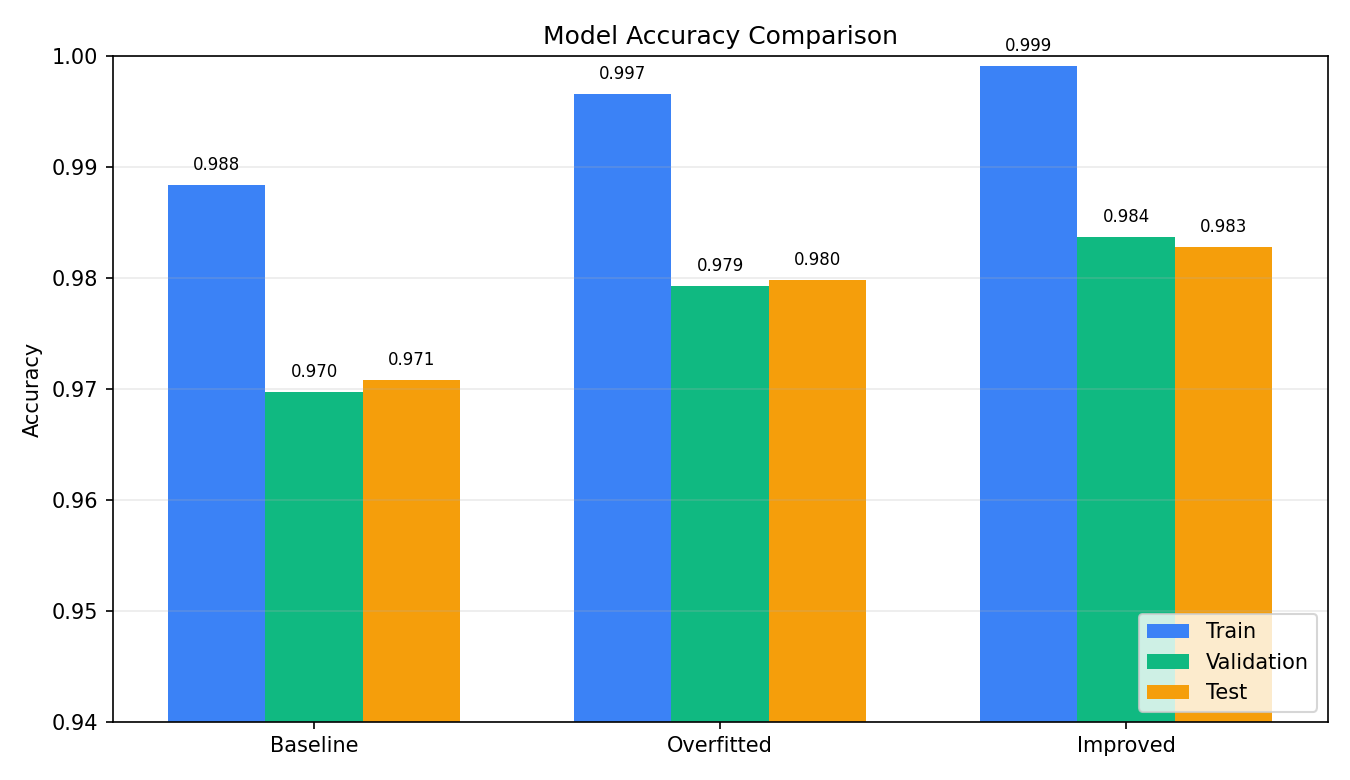
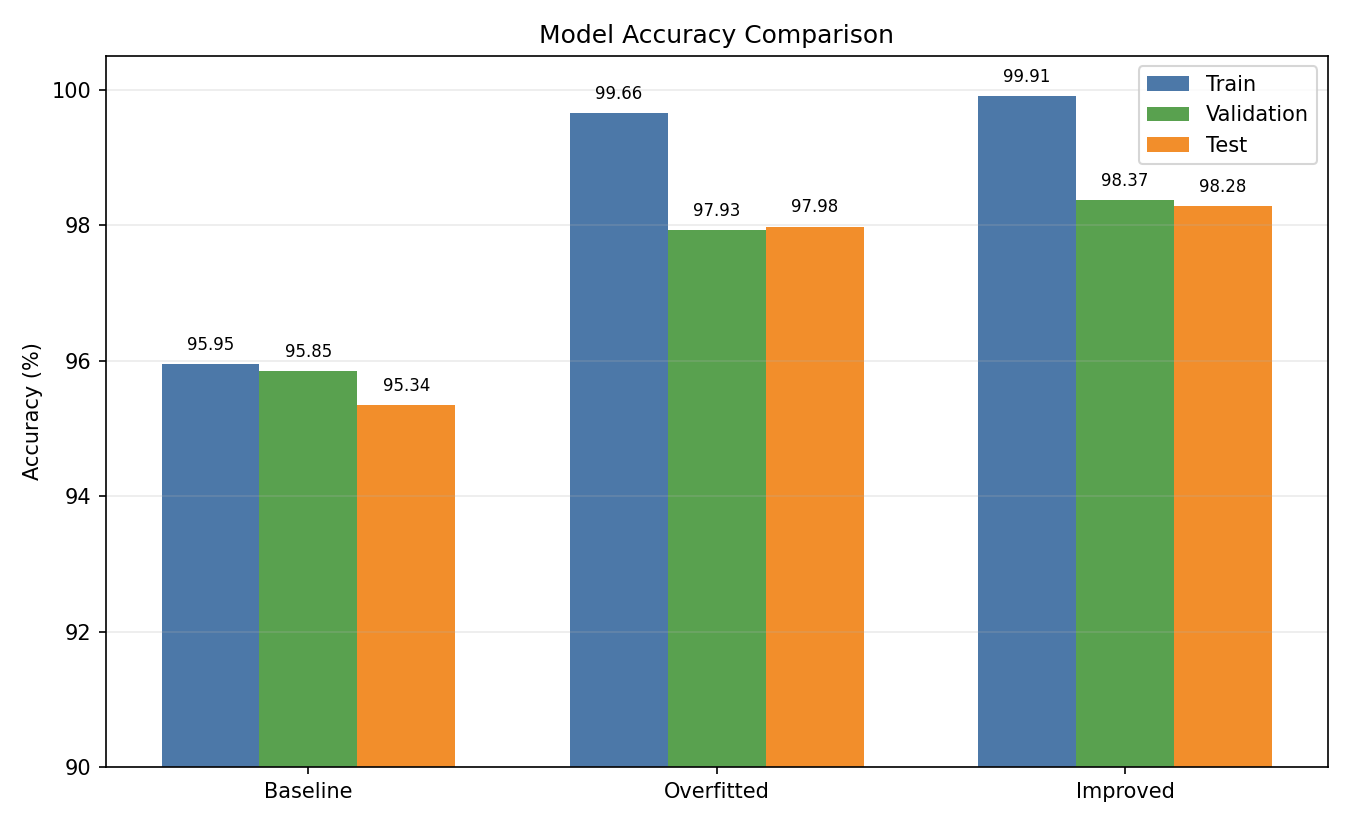
updated the architecture of the baseline model

diff --git a/models.py b/models.py
@@ -10,13 +10,12 @@ NUM_CLASSES = 10
 
 
 def build_baseline_model():
-    """Create the simple feed-forward neural network for Part 1."""
+    """Create a small baseline model that acts as a stable reference."""
     model = Sequential(
         [
             Input(shape=INPUT_SHAPE, name="input"),
             Flatten(name="flatten"),
-            Dense(128, activation="relu", name="dense_128"),
-            Dense(64, activation="relu", name="dense_64"),
+            Dense(32, activation="relu", name="dense_32"),
             Dense(NUM_CLASSES, activation="softmax", name="output"),
         ],
         name="baseline_model",

diff --git a/utils.py b/utils.py
@@ -2,6 +2,9 @@
 
 from pathlib import Path
 
+import matplotlib
+
+matplotlib.use("Agg")
 import matplotlib.pyplot as plt
 import numpy as np
 from tensorflow.keras.datasets import mnist

diff --git a/main.py b/main.py
@@ -42,7 +42,7 @@ def main():
         train_data=train_data,
         val_data=val_data,
         test_data=test_data,
-        epochs=10,
+        epochs=6,
         batch_size=128,
     )
 

diff --git a/PROJECT_REPORT.md b/PROJECT_REPORT.md
@@ -56,17 +56,17 @@ The complete workflow followed by the project is:
 
 | Model | Architecture Summary | Parameters |
 |---|---|---:|
-| Baseline | Flatten -> Dense(128) -> Dense(64) -> Dense(10) | 109,386 |
+| Baseline | Flatten -> Dense(32) -> Dense(10) | 25,450 |
 | Overfitted | Flatten -> Dense(1024) -> Dense(1024) -> Dense(512) -> Dense(512) -> Dense(256) -> Dense(10) | 2,774,794 |
 | Improved | Same as Overfitted, with L2 regularization and Dropout after each hidden layer | 2,774,794 |
 
 All models use ReLU activations in hidden layers and Softmax activation in the output layer. The loss function is sparse categorical cross-entropy, and the optimizer is Adam with a learning rate of `0.001`.
 
-The baseline model has far fewer parameters, so it is faster and less likely to memorize the training data. The overfitted and improved models have the same number of parameters, which makes the comparison fair: any improvement in the improved model comes from training strategy and regularization, not from reducing the model size.
+The baseline model is intentionally small, with only one hidden layer. This makes it faster, easier to interpret, and less likely to memorize the training data. The overfitted and improved models have the same number of parameters, which makes their comparison fair: any improvement in the improved model comes from training strategy and regularization, not from reducing the model size.
 
 ## 5. Training Strategy
 
-The baseline model is trained for 10 epochs. The overfitted model is trained for 60 epochs with no dropout, no L2 regularization, and no early stopping. This gives it enough capacity and training time to fit the training set very closely.
+The baseline model is trained for 6 epochs. This keeps it as a conservative reference model and avoids training it long enough to memorize the training split. The overfitted model is trained for 60 epochs with no dropout, no L2 regularization, and no early stopping. This gives it enough capacity and training time to fit the training set very closely.
 
 The improved model keeps the same large hidden-layer sizes as the overfitted model, but adds:
 
@@ -97,11 +97,11 @@ The saved models were reloaded and evaluated on the fixed train, validation, and
 
 | Model | Train Accuracy | Validation Accuracy | Test Accuracy | Train Loss | Validation Loss | Test Loss |
 |---|---:|---:|---:|---:|---:|---:|
-| Baseline | 98.84% | 96.97% | 97.08% | 0.0334 | 0.1174 | 0.1134 |
+| Baseline | 95.95% | 95.85% | 95.34% | 0.1411 | 0.1501 | 0.1590 |
 | Overfitted | 99.66% | 97.93% | 97.98% | 0.0158 | 0.1551 | 0.1430 |
 | Improved | 99.91% | 98.37% | 98.28% | 0.1016 | 0.1570 | 0.1591 |
 
-The improved model achieves the best validation and test accuracy. Its loss is higher because L2 regularization contributes to the reported loss value, but its accuracy shows better generalization.
+The baseline model now has nearly identical training and validation accuracy, so it works as a stable reference rather than an overfitting example. The improved model achieves the best validation and test accuracy. Its loss is higher because L2 regularization contributes to the reported loss value, but its accuracy shows better generalization.
 
 ![Model accuracy comparison](plots/model_accuracy_comparison.png)
 
@@ -121,6 +121,18 @@ The most important comparison is between the overfitted and improved models:
 | Early Stopping | No | Yes |
 | Test Accuracy | 97.98% | 98.28% |
 
+Another useful way to judge the improvement is to compare the loss gap between the training set and the test set. This focuses on how much the model's performance changes when it moves from familiar training data to unseen test data.
+
+| Loss Gap Comparison | Overfitted Model | Improved Model |
+|---|---:|---:|
+| Train Loss | 0.0158 | 0.1016 |
+| Test Loss | 0.1430 | 0.1591 |
+| Test Loss - Train Loss | 0.1272 | 0.0575 |
+
+Using the rounded values from the results table, the overfitted model has a loss gap of `0.1430 - 0.0158 = 0.1272`. The improved model has a smaller loss gap of `0.1591 - 0.1016 = 0.0575`. This means the improved model reduces the train-to-test loss divergence by more than half while also raising test accuracy from 97.98% to 98.28%.
+
+The improved model's absolute loss is higher partly because L2 regularization adds a penalty term to the reported loss. For that reason, the loss gap and the final validation/test accuracy are more useful than looking only at the raw test loss.
+
 This comparison supports the conclusion that the improvement comes from better training control and regularization rather than from using a smaller or simpler model.
 
 ## 9. Training Curves
@@ -131,7 +143,7 @@ This comparison supports the conclusion that the improvement comes from better t
 
 ![Baseline loss curve](plots/baseline_model_loss.png)
 
-The baseline model learns quickly and reaches good accuracy, but it has lower validation and test accuracy than the larger models.
+The baseline model learns quickly and keeps training and validation accuracy close together. This shows that it is properly sized for its role as a reference model and does not show meaningful overfitting.
 
 ### Overfitted Model
 
@@ -191,7 +203,7 @@ Other useful improvements include testing different dropout rates, trying differ
 
 ## 13. Conclusion
 
-The experiment shows that increasing model capacity can improve performance, but it also increases the risk of overfitting. The overfitted model performs better than the baseline, but its training accuracy is much higher than its validation and test accuracy.
+The experiment shows that increasing model capacity can improve performance, but it also increases the risk of overfitting. The baseline model is intentionally simple and stable, while the much larger overfitted model achieves higher accuracy at the cost of a clearer gap between training and validation behavior.
 
 The improved model is the best final model because it keeps the large architecture while using dropout, L2 regularization, early stopping, and adaptive learning-rate reduction. It achieves the highest test accuracy at 98.28%, making it the strongest generalizing model in this project.
 

diff --git a/README.md b/README.md
@@ -33,6 +33,16 @@ All pixel values are normalized from the original range `[0, 255]` to `[0, 1]`.
 
 Overfitting happens when a model learns the training data too closely instead of learning patterns that generalize well to new data. An overfitted model usually has very high training accuracy but lower validation or test accuracy. Its validation loss may stop improving or increase while training loss continues to decrease.
 
+## Baseline Model Design
+
+The baseline model is intentionally small so it can act as a stable reference:
+
+- Flatten
+- Dense(32, ReLU)
+- Dense(10, Softmax)
+
+It is trained for 6 epochs. This keeps the baseline simple and avoids making it another overfitting example.
+
 ## How Overfitting Was Intentionally Created
 
 The overfitted model uses a much larger architecture than the baseline: